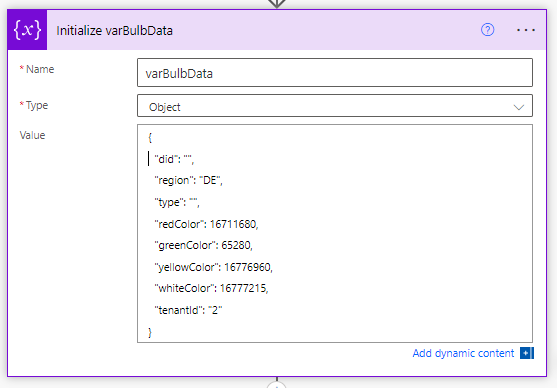
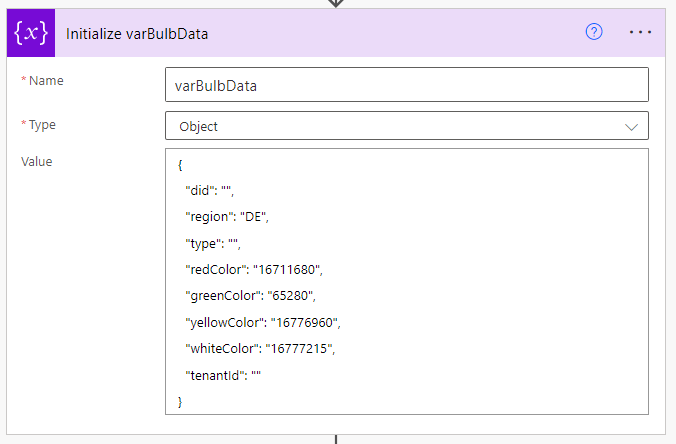
add some screens

Changed region(s): [[0.0, 0.0, 1.0, 1.0]]

diff --git a/_posts/2023-04-27-Bulb_Presence.md b/_posts/2023-04-27-Bulb_Presence.md
@@ -1,7 +1,7 @@
 ---
 layout: post
 title:  "Use a bulb to indicate presence in Microsoft Teams"
-date:   2023-04-27 11:08:54 +0200
+date:   2023-04-27 00:00:00 +0200
 tags: ["Power Automate", "Xiaomi Yeelight", "MS Graph"]
 photo: "/images/bulb/header.png"
 ---
@@ -77,10 +77,10 @@ Power Automate was a natural choice for a simple yet powerful solution to design
 
 ```javascript
 {
-  "redColor": 16711680,
-  "greenColor": 65280,
-  "yellowColor": 16776960,
-  "whiteColor": 16777215,
+  "redColor": "16711680",
+  "greenColor": "65280",
+  "yellowColor": "16776960",
+  "whiteColor": "16777215",
 }
 ```
 
@@ -104,6 +104,8 @@ If the condition is met, the flow will respond with the required value to the **
 ```javascript
 triggerOutputs()?['body']?['value'][0]?['tenantId']  is equal to  '<<TENANT ID>>'
 ```
+
+![Check Tenant Id](images/bulb/checktenantid.png)
 
 * For this particular project, I incorporated the **Yeelight Colorful Bulb** device, which is an affordable smart bulb controlled remotely within a Wi-Fi connection.
   To get more information about the device use the Discover and Query actions of the Yeelight service provided by Xiaomi. The output of the query contains the "spectrumRGB" property to be set in a variable within the next action.
@@ -138,6 +140,9 @@ Away - yellowColor
 ```
 
 * Check if the target color is different than the current one - the condition checks if the current color of the bulb is different from the target color. If the condition is false, the flow will terminate.
+
+![Color change condition](/images/bulb/colorChangeCondition.png)
+
 
 * To change the color of the bulb using Power Automate, populating the following properties in all the final Color action is essential:
 
